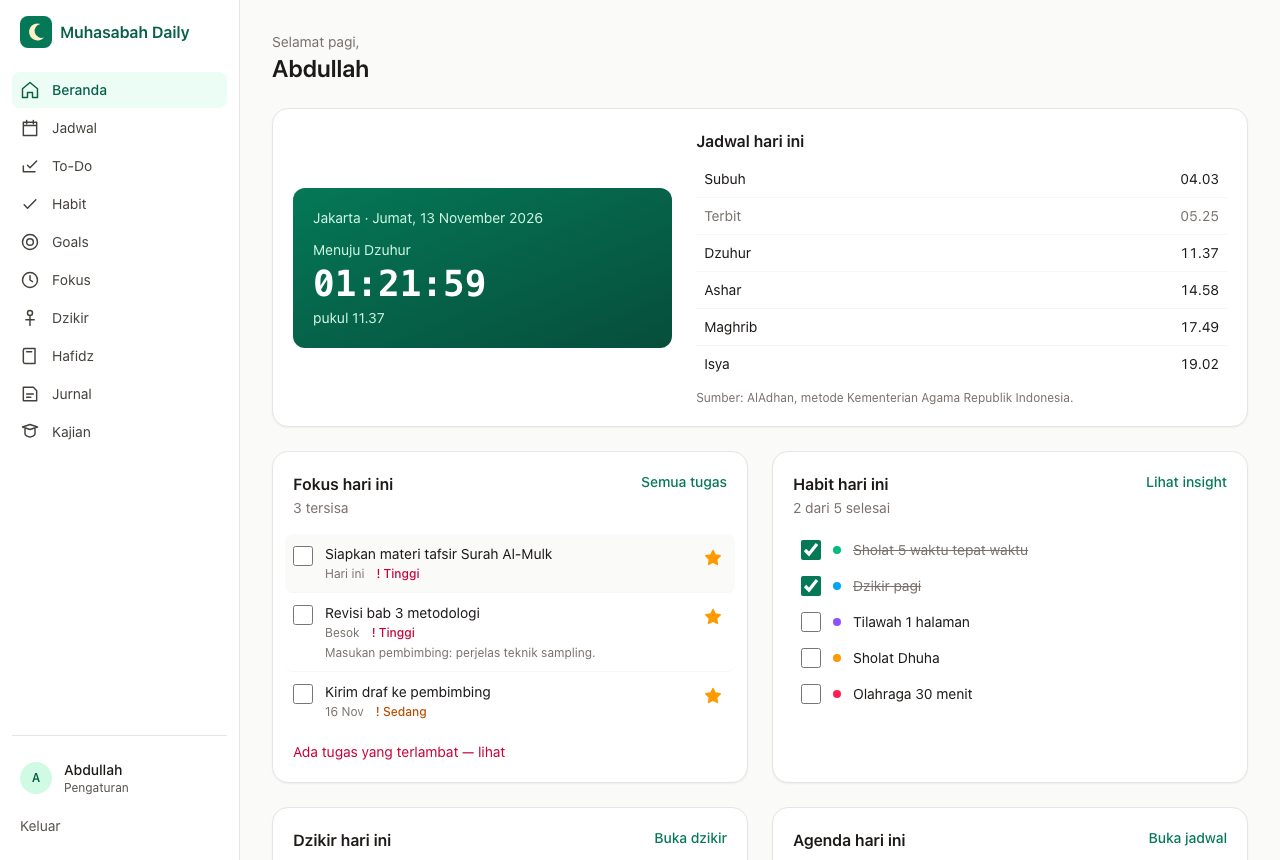
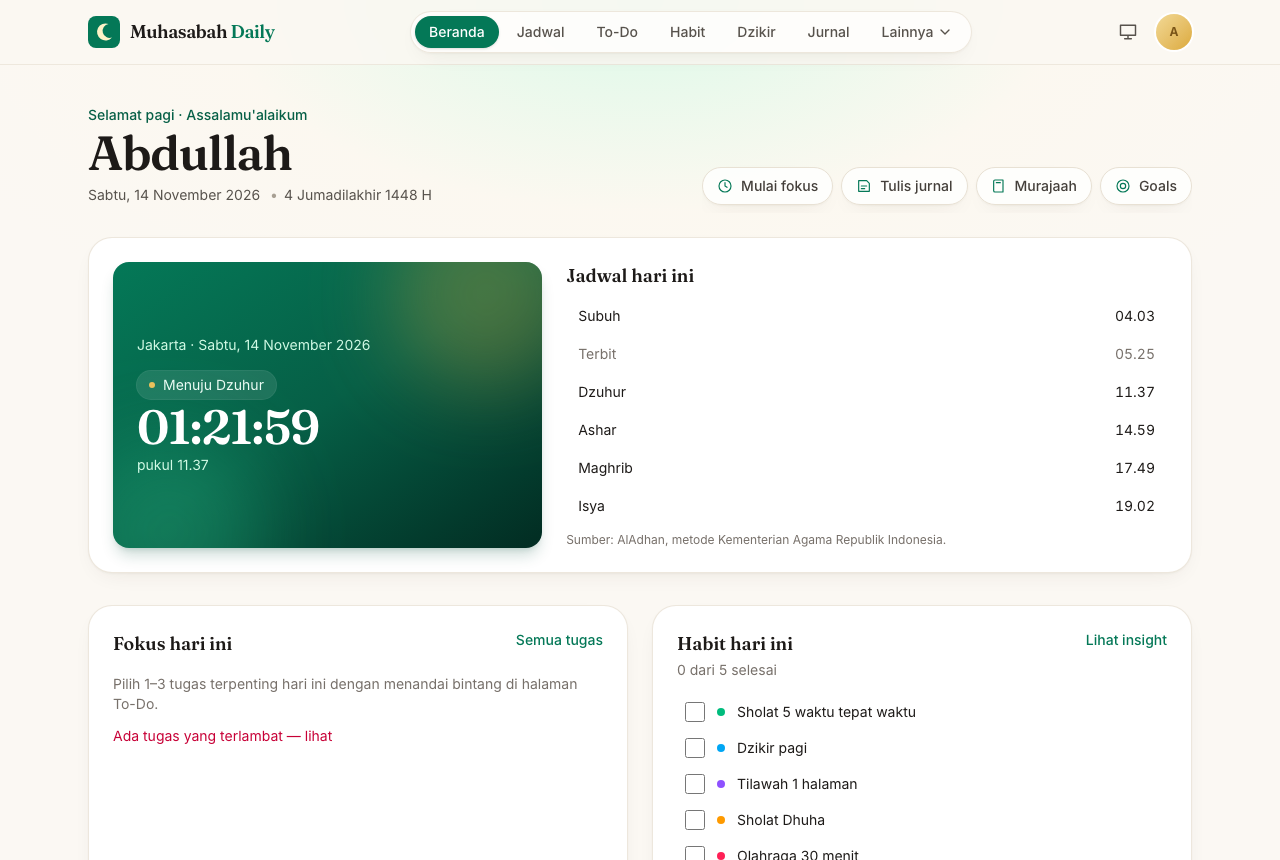
chore: rilis v1.1.0 dan perbarui tangkapan layar README
Tangkapan layar docs/screenshots/ dibuat ulang dari tampilan baru,
README dan CHANGELOG diperbarui, versi paket dinaikkan ke 1.1.0.

diff --git a/apps/api/src/main.ts b/apps/api/src/main.ts
@@ -22,7 +22,7 @@ async function bootstrap() {
       app,
       new DocumentBuilder()
         .setTitle('Muhasabah Daily API')
-        .setVersion('1.0.0')
+        .setVersion('1.1.0')
         .addBearerAuth()
         .build(),
     );

diff --git a/README.md b/README.md
@@ -2,7 +2,7 @@
 
 Aplikasi produktivitas Muslim open source yang dijalankan di komputermu sendiri. Jadwal, to-do, habit, goals, fokus, dzikir, hafalan, jurnal, dan catatan kajian disusun di sekitar waktu sholat.
 
-> **v1.0.0** — semua modul dari rancangan awal: waktu sholat, jadwal, to-do, habit, goals, fokus, dzikir, Hafidz, jurnal dengan AI Polish, dan catatan kajian. Lihat [CHANGELOG.md](CHANGELOG.md).
+> **v1.1.0** — tampilan baru bergaya web personal: navigasi header di desktop, tab bar di ponsel, dan tombol mode gelap. Lihat [CHANGELOG.md](CHANGELOG.md).
 
 ![Beranda: waktu sholat, fokus hari ini, habit, dzikir, dan agenda](docs/screenshots/beranda.png)
 
@@ -18,7 +18,7 @@ Aplikasi produktivitas Muslim open source yang dijalankan di komputermu sendiri.
 - **Hafidz**: rencana hafalan dengan tahapan tikrar (dengar, baca sendiri, sambung) dan pemutar murottal per ayat.
 - **Jurnal** harian dengan simpan otomatis dan **AI Polish** opsional (Claude, kunci API milikmu) yang merapikan ejaan tanpa menimpa teks asli.
 - **Catatan Kajian** dengan editor teks kaya dan rujukan ayat yang menampilkan teks Arab dan terjemah.
-- Mode gelap, tampilan ponsel, dan audit aksesibilitas WCAG 2.1 AA otomatis di setiap halaman.
+- Tombol mode gelap (terang/gelap/ikuti sistem) di header, tampilan ponsel dengan tab bar bawah, dan audit aksesibilitas WCAG 2.1 AA otomatis di setiap halaman.
 
 | Jadwal hari                                                          | Habit dan insight                                         | Dzikir (gelap)                                                 |
 | -------------------------------------------------------------------- | --------------------------------------------------------- | -------------------------------------------------------------- |
@@ -88,18 +88,18 @@ docker compose --profile full up --build
 
 ## Skrip
 
-| Perintah                                     | Fungsi                                                                                |
-| -------------------------------------------- | ------------------------------------------------------------------------------------- |
-| `pnpm dev`                                   | Jalankan shared (watch), API, dan web                                                 |
-| `pnpm lint` / `pnpm format`                  | ESLint / Prettier                                                                     |
-| `pnpm typecheck`                             | Cek tipe semua paket                                                                  |
-| `pnpm test`                                  | Test unit dan integrasi (butuh `db` dan `redis` berjalan)                             |
-| `pnpm test:e2e`                              | E2E Playwright (pertama kali: `pnpm --filter web exec playwright install chromium`)   |
-| `pnpm build`                                 | Build produksi API dan web                                                            |
-| `pnpm --filter api seed:demo`                | Buat ulang akun demo beserta datanya                                                  |
-| `pnpm --filter api seed:quran`               | Impor data Al-Qur'an lewat antrean (`-- --direct` tanpa API, `-- --fixture` data uji) |
-| `pnpm --filter web screenshots`              | Perbarui `docs/screenshots/` (butuh `pnpm dev` dan `seed:demo`)                       |
-| `pnpm --filter api db:migrate --name <nama>` | Buat migrasi baru                                                                     |
+| Perintah                                     | Fungsi                                                                                   |
+| -------------------------------------------- | ---------------------------------------------------------------------------------------- |
+| `pnpm dev`                                   | Jalankan shared (watch), API, dan web                                                    |
+| `pnpm lint` / `pnpm format`                  | ESLint / Prettier                                                                        |
+| `pnpm typecheck`                             | Cek tipe semua paket                                                                     |
+| `pnpm test`                                  | Test unit dan integrasi (butuh `db` dan `redis` berjalan)                                |
+| `pnpm test:e2e`                              | E2E Playwright (pertama kali: `pnpm --filter web exec playwright install chromium`)      |
+| `pnpm build`                                 | Build produksi API dan web                                                               |
+| `pnpm --filter api seed:demo`                | Buat ulang akun demo beserta datanya                                                     |
+| `pnpm --filter api seed:quran`               | Impor data Al-Qur'an lewat antrean (`-- --direct` tanpa API, `-- --fixture` data uji)    |
+| `pnpm --filter web screenshots`              | Perbarui `docs/screenshots/` (butuh `pnpm dev` dan `seed:demo`; `BASE_URL` untuk Docker) |
+| `pnpm --filter api db:migrate --name <nama>` | Buat migrasi baru                                                                        |
 
 ## Struktur
 

diff --git a/CHANGELOG.md b/CHANGELOG.md
@@ -2,7 +2,7 @@
 
 Format mengikuti [Keep a Changelog](https://keepachangelog.com/id-ID/1.1.0/) dan versi mengikuti [Semantic Versioning](https://semver.org/lang/id/).
 
-## [Belum dirilis]
+## [1.1.0] — 2026-11-14
 
 ### Diubah
 
@@ -10,6 +10,7 @@ Format mengikuti [Keep a Changelog](https://keepachangelog.com/id-ID/1.1.0/) dan
 - **Beranda:** sapaan besar, tanggal Masehi dan Hijriah (Umm al-Qura, bisa selisih sehari dengan penetapan resmi), pintasan cepat, dan kartu hitung mundur sholat yang diperbarui.
 - **Halaman masuk/daftar:** tata letak terbelah dengan panel sambutan di layar lebar.
 - **Dialog** tampil sebagai lembar dari bawah di layar kecil.
+- **Tangkapan layar README** diperbarui ke tampilan baru.
 - **Select** diganti listbox kustom yang mengikuti tema (termasuk mode gelap), dengan kolom cari untuk daftar panjang dan dukungan keyboard.
 
 ### Ditambahkan
@@ -73,5 +74,6 @@ Rilis pertama: fase 0–4 dari [peta fase](ARCHITECTURE.md#16-pemetaan-ke-fase-p
 
 - Teks dzikir dari hadis dan rujukan library habit perlu ditinjau pengelola; lihat [DATA_SOURCES.md](DATA_SOURCES.md).
 
+[1.1.0]: ../../releases/tag/v1.1.0
 [1.0.0]: ../../releases/tag/v1.0.0
 [0.1.0]: ../../releases/tag/v0.1.0
